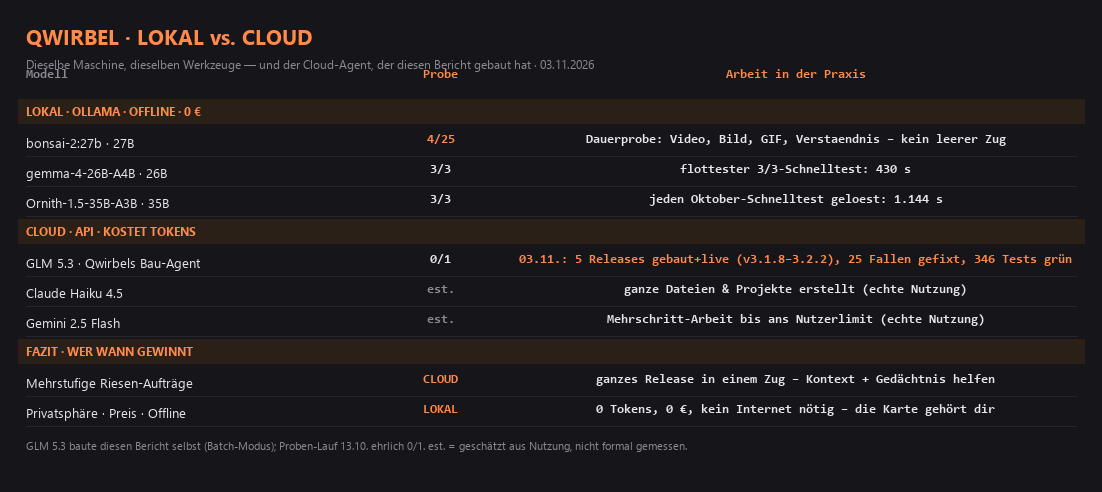
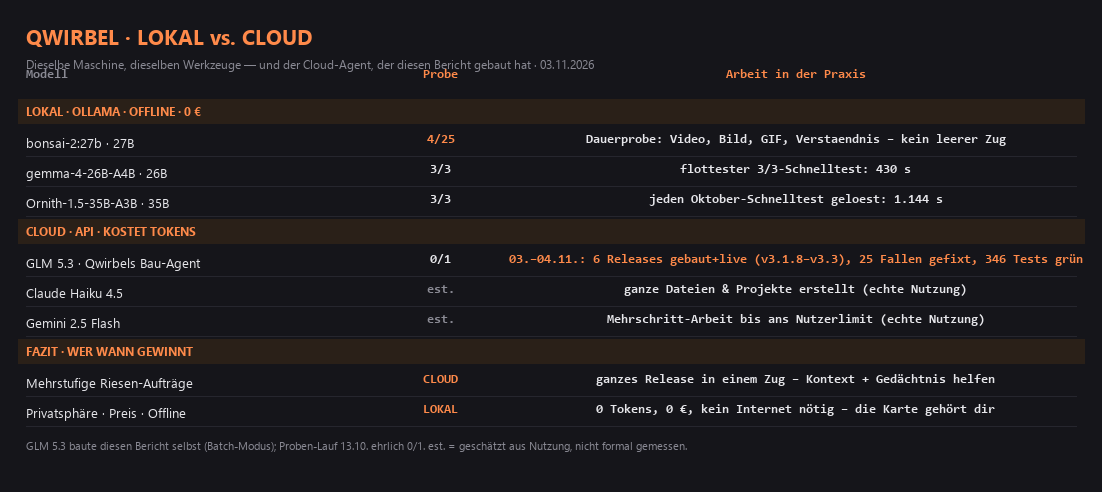
Benchmark-Update: 89 Laeufe (04.11.), Bilder neu gebaut (qwen3.5-Doppellauf-Fussnote, GLM-5.3-Praxis 6 Releases)

Changed region(s): [[0.4628, 0.5183, 0.9873, 0.5488]]

diff --git a/BENCHMARK.md b/BENCHMARK.md
@@ -5,7 +5,7 @@
 Qwirbel misst das jede Nacht mit echten Agent-Aufträgen. Dieser Bericht
 zeigt die Zahlen ungekürzt, inklusive der Läufe, die schlecht ausgingen.
 
-Stand: **03.11.2026, 20:45 Uhr** — 88 Läufe, 23 Modelle, alles auf derselben Maschine
+Stand: **04.11.2026, 01:50 Uhr** — 89 Läufe, 23 Modelle, alles auf derselben Maschine
 (Ryzen 7 5700X, Radeon RX 9060 XT 16 GB, Windows 11, Ollama).
 
 ---
@@ -44,6 +44,7 @@ Runde frisch:
 | bonsai-2:27b | 02.11. 04:40 | 4/25 | 15.729 s |
 | bonsai-2:27b | 03.11. 00:16 | 1/8 | 3.167 s |
 | qwen3.5:9b | 03.11. 08:30 | 1/25 | 3.618 s |
+| qwen3.5:9b | 04.11. 00:40 | 0/25† | 7 s |
 | ternary-nemotron-30b-a3b | 02.11. 09:04 | 1/25 | 4.255 s |
 | ternary-nemotron-30b-a3b | 02.11. 03:22 | 1/25 | 4.624 s |
 | qwen3.5:9b | 02.11. 23:53 | 0/25 | 1.164 s |
@@ -52,6 +53,10 @@ Runde frisch:
 
 \* Abbruch nach 16 Aufgaben — der Besitzer spielte gerade. Die Testkette gibt
 die Grafikkarte freiwillig frei und macht nach der Pause weiter.
+
+† Parallel-Doppellauf: Diese Probe startete in derselben Sekunde wie die
+bonsai-2:27b-Probe (gleiche GPU) und endete nach 7 s Aufgabenzeit ohne
+Ergebnis — keine Aussage über das Modell.
 
 Bestanden hat bonsai-2:27b zuletzt: Video-Schnitt, Bild-Aufgabe,
 GIF-Erzeugung und die Verständnisfragen — mit 44, 17, 33 und 26 echten
@@ -85,7 +90,7 @@ weiter; dieser Bericht wird mitgezogen.
 | granite-4.0-h-small UD-IQ3_XXS | 1/4 | |
 | Qwen3.8-27B UD-Q2_K_XL | 1/4 | |
 
-Insgesamt 23 Modelle gemessen; die vollständige Tabelle aller 88 Läufe
+Insgesamt 23 Modelle gemessen; die vollständige Tabelle aller 89 Läufe
 wächst im Entwicklungs-Repo mit.
 
 ---
@@ -105,8 +110,8 @@ wächst im Entwicklungs-Repo mit.
 
 ---
 
-*Alle Zahlen stammen aus Qwirbels eingebauter Arbeitsprobe (88 Läufe bis
-03.11.2026). Kein Lauf wurde nachträglich schöngerechnet; schlechte Tage
+*Alle Zahlen stammen aus Qwirbels eingebauter Arbeitsprobe (89 Läufe bis
+04.11.2026). Kein Lauf wurde nachträglich schöngerechnet; schlechte Tage
 stehen mit drin.*
 
 ---
